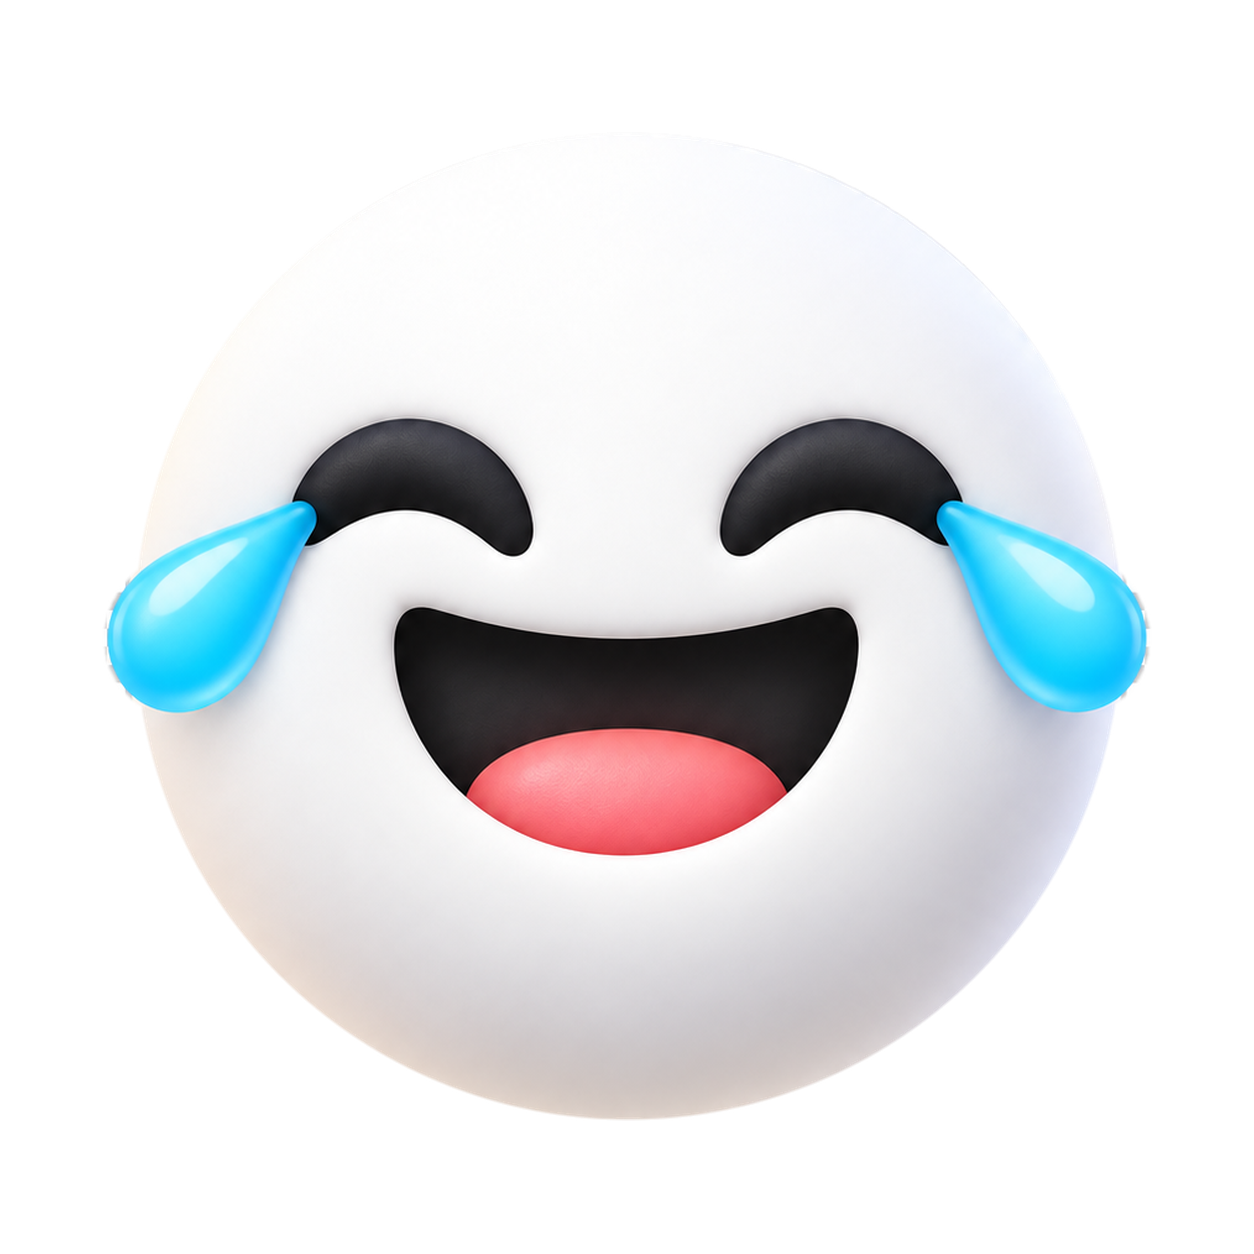
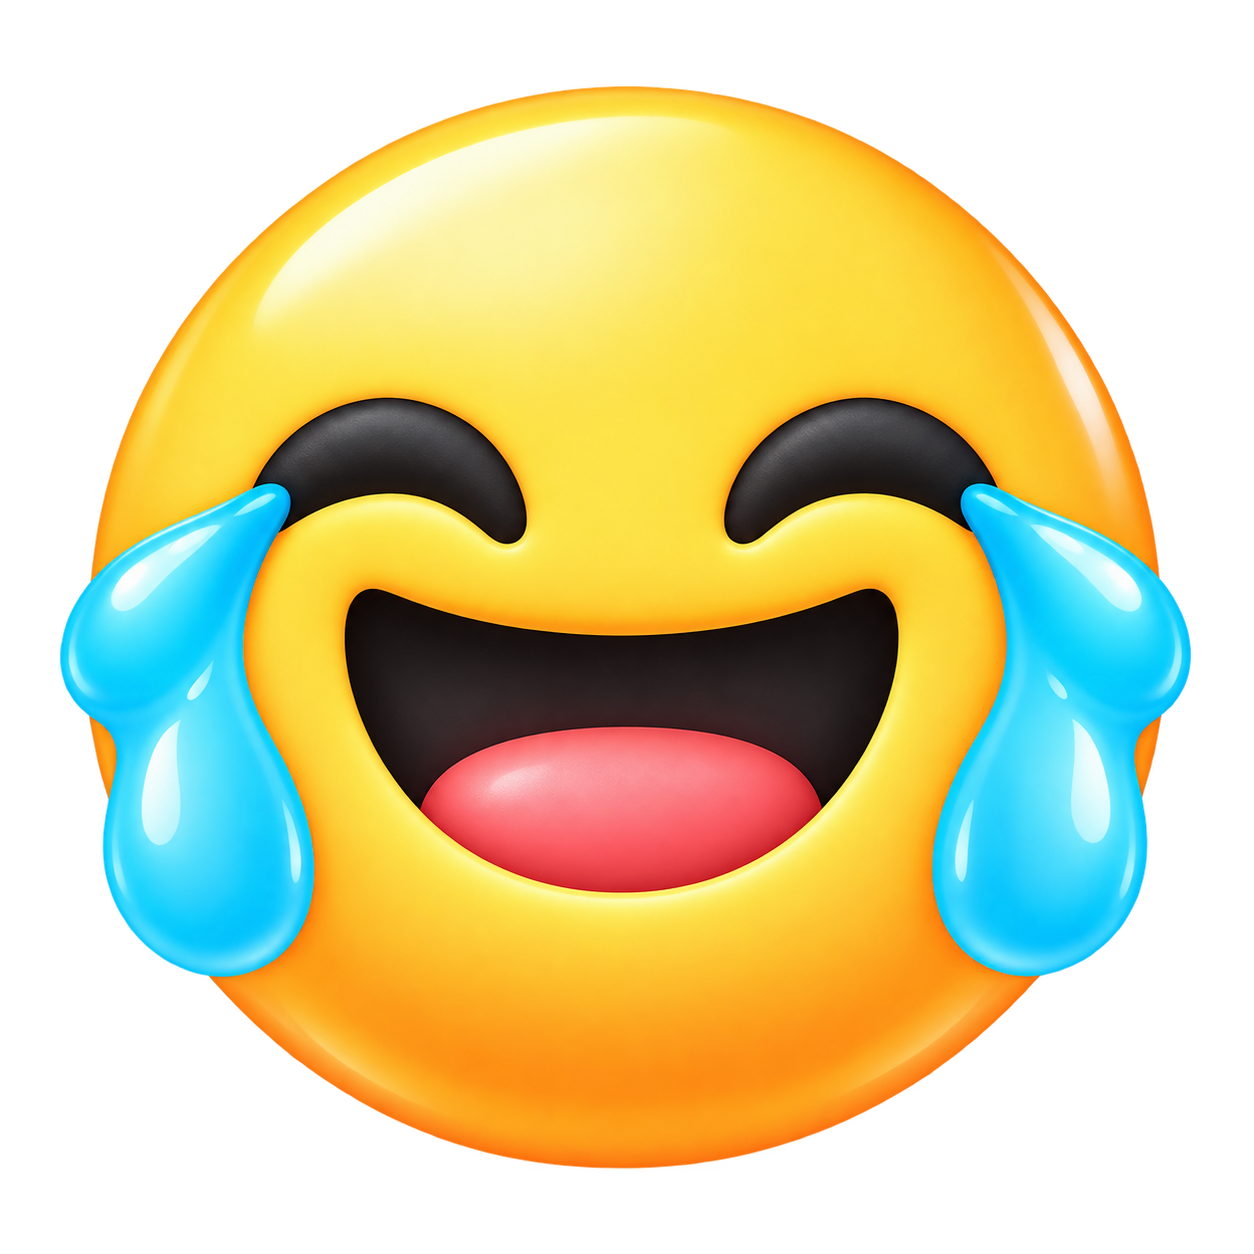
Use the new reaction emoji PNGs on Home, Live, and Wave.
Same six files, cache-busted so the replacement art shows. Wave ROFL now writes ROFL instead of Like.

diff --git a/components/feed/ReactionMark.tsx b/components/feed/ReactionMark.tsx
@@ -61,7 +61,7 @@ class SafeReactionImage extends Component<ReactionMarkProps, SafeState> {
     }
     return (
       <Image
-        key={kind === 'like' ? `like-${LIKE_MARK_REV}` : kind}
+        key={`${kind}-${LIKE_MARK_REV}`}
         source={source}
         resizeMode="contain"
         fadeDuration={0}
@@ -79,7 +79,7 @@ class SafeReactionImage extends Component<ReactionMarkProps, SafeState> {
 }
 
 /**
- * Bob PNG for Home, Live, comments, and the Wave / Round rail.
+ * Reaction PNG for Home, Live, comments, and the Wave / Round rail.
  * `require()` only. Never resolveAssetSource. Never tint.
  */
 export function ReactionMark({ type, size }: ReactionMarkProps) {

diff --git a/lib/reactions.ts b/lib/reactions.ts
@@ -134,8 +134,8 @@ export const LIVE_BUBBLE_INNER_GUTTER = LIVE_BUBBLE_PILL_INSET;
 export const LIVE_HANG_OVERLAP = LIVE_PILL_OVERLAP;
 /** @deprecated Live now uses LIVE_PILL_CLEARANCE. */
 export const LIVE_HANG_CLEARANCE = LIVE_PILL_CLEARANCE;
-/** Bust Metro / web cache when like.png is replaced in place. */
-export const LIKE_MARK_REV = 2;
+/** Bust Metro / web cache when reaction PNGs are replaced in place. */
+export const LIKE_MARK_REV = 3;
 
 const OPTIMISTIC_IGNORE_MS = 2000;
 const recentOptimisticKeys = new Map<string, number>();

diff --git a/lib/clipReactions.ts b/lib/clipReactions.ts
@@ -8,6 +8,7 @@ export const CLIP_REACTIONS = [
   { type: 'like', emoji: '👍', label: 'Like' },
   { type: 'love', emoji: '❤', label: 'Love' },
   { type: 'laugh', emoji: '😂', label: 'Laugh' },
+  { type: 'rofl', emoji: '🤣', label: 'ROFL' },
   { type: 'fire', emoji: '🔥', label: 'Fire' },
   { type: 'sad', emoji: '😢', label: 'Sad' },
   { type: 'shock', emoji: '😮', label: 'Shock' },

diff --git a/lib/clipReactions.test.ts b/lib/clipReactions.test.ts
@@ -20,6 +20,7 @@ describe('clip reactions', () => {
 
   it('keeps the eight picker types', () => {
     expect(asClipReactionType('laugh')).toBe('laugh');
+    expect(asClipReactionType('rofl')).toBe('rofl');
     expect(asClipReactionType('shock')).toBe('shock');
     expect(asClipReactionType('applause')).toBe('applause');
     expect(asClipReactionType('praise')).toBe('praise');

diff --git a/assets/blob-bob-reaction-emojis/README.md b/assets/blob-bob-reaction-emojis/README.md
@@ -1,15 +1,15 @@
-# blOb Bob Reaction Emojis
+# blOb reaction emojis
 
 Six production PNG assets for reaction controls and Activity Cards.
 
 | File | Reaction | Visual |
 | --- | --- | --- |
-| `like.png` | Like | Bob with a clear thumbs-up |
-| `love.png` | Love | Heart-shaped Bob blob |
-| `lol.png` | LOL | Upright Bob laughing with two tears |
-| `rofl.png` | ROFL | Canted Bob laughing with two tears |
-| `fire.png` | Fire | Bob with a compact flame lobe |
-| `sad.png` | Sad | Soft downturned Bob |
+| `like.png` | Like | Blue smiling face with a thumbs-up |
+| `love.png` | Love | Red smiling heart |
+| `lol.png` | LOL | Yellow face laughing with two tears |
+| `rofl.png` | ROFL | Yellow face laughing, one eye winking |
+| `fire.png` | Fire | Smiling flame |
+| `sad.png` | Sad | Blue blob with downturned mouth and two tears |
 
 All assets are 1254 × 1254 px RGBA PNGs with true transparent backgrounds,
 consistent visual scale, centered artwork, and no human hands or feet.
